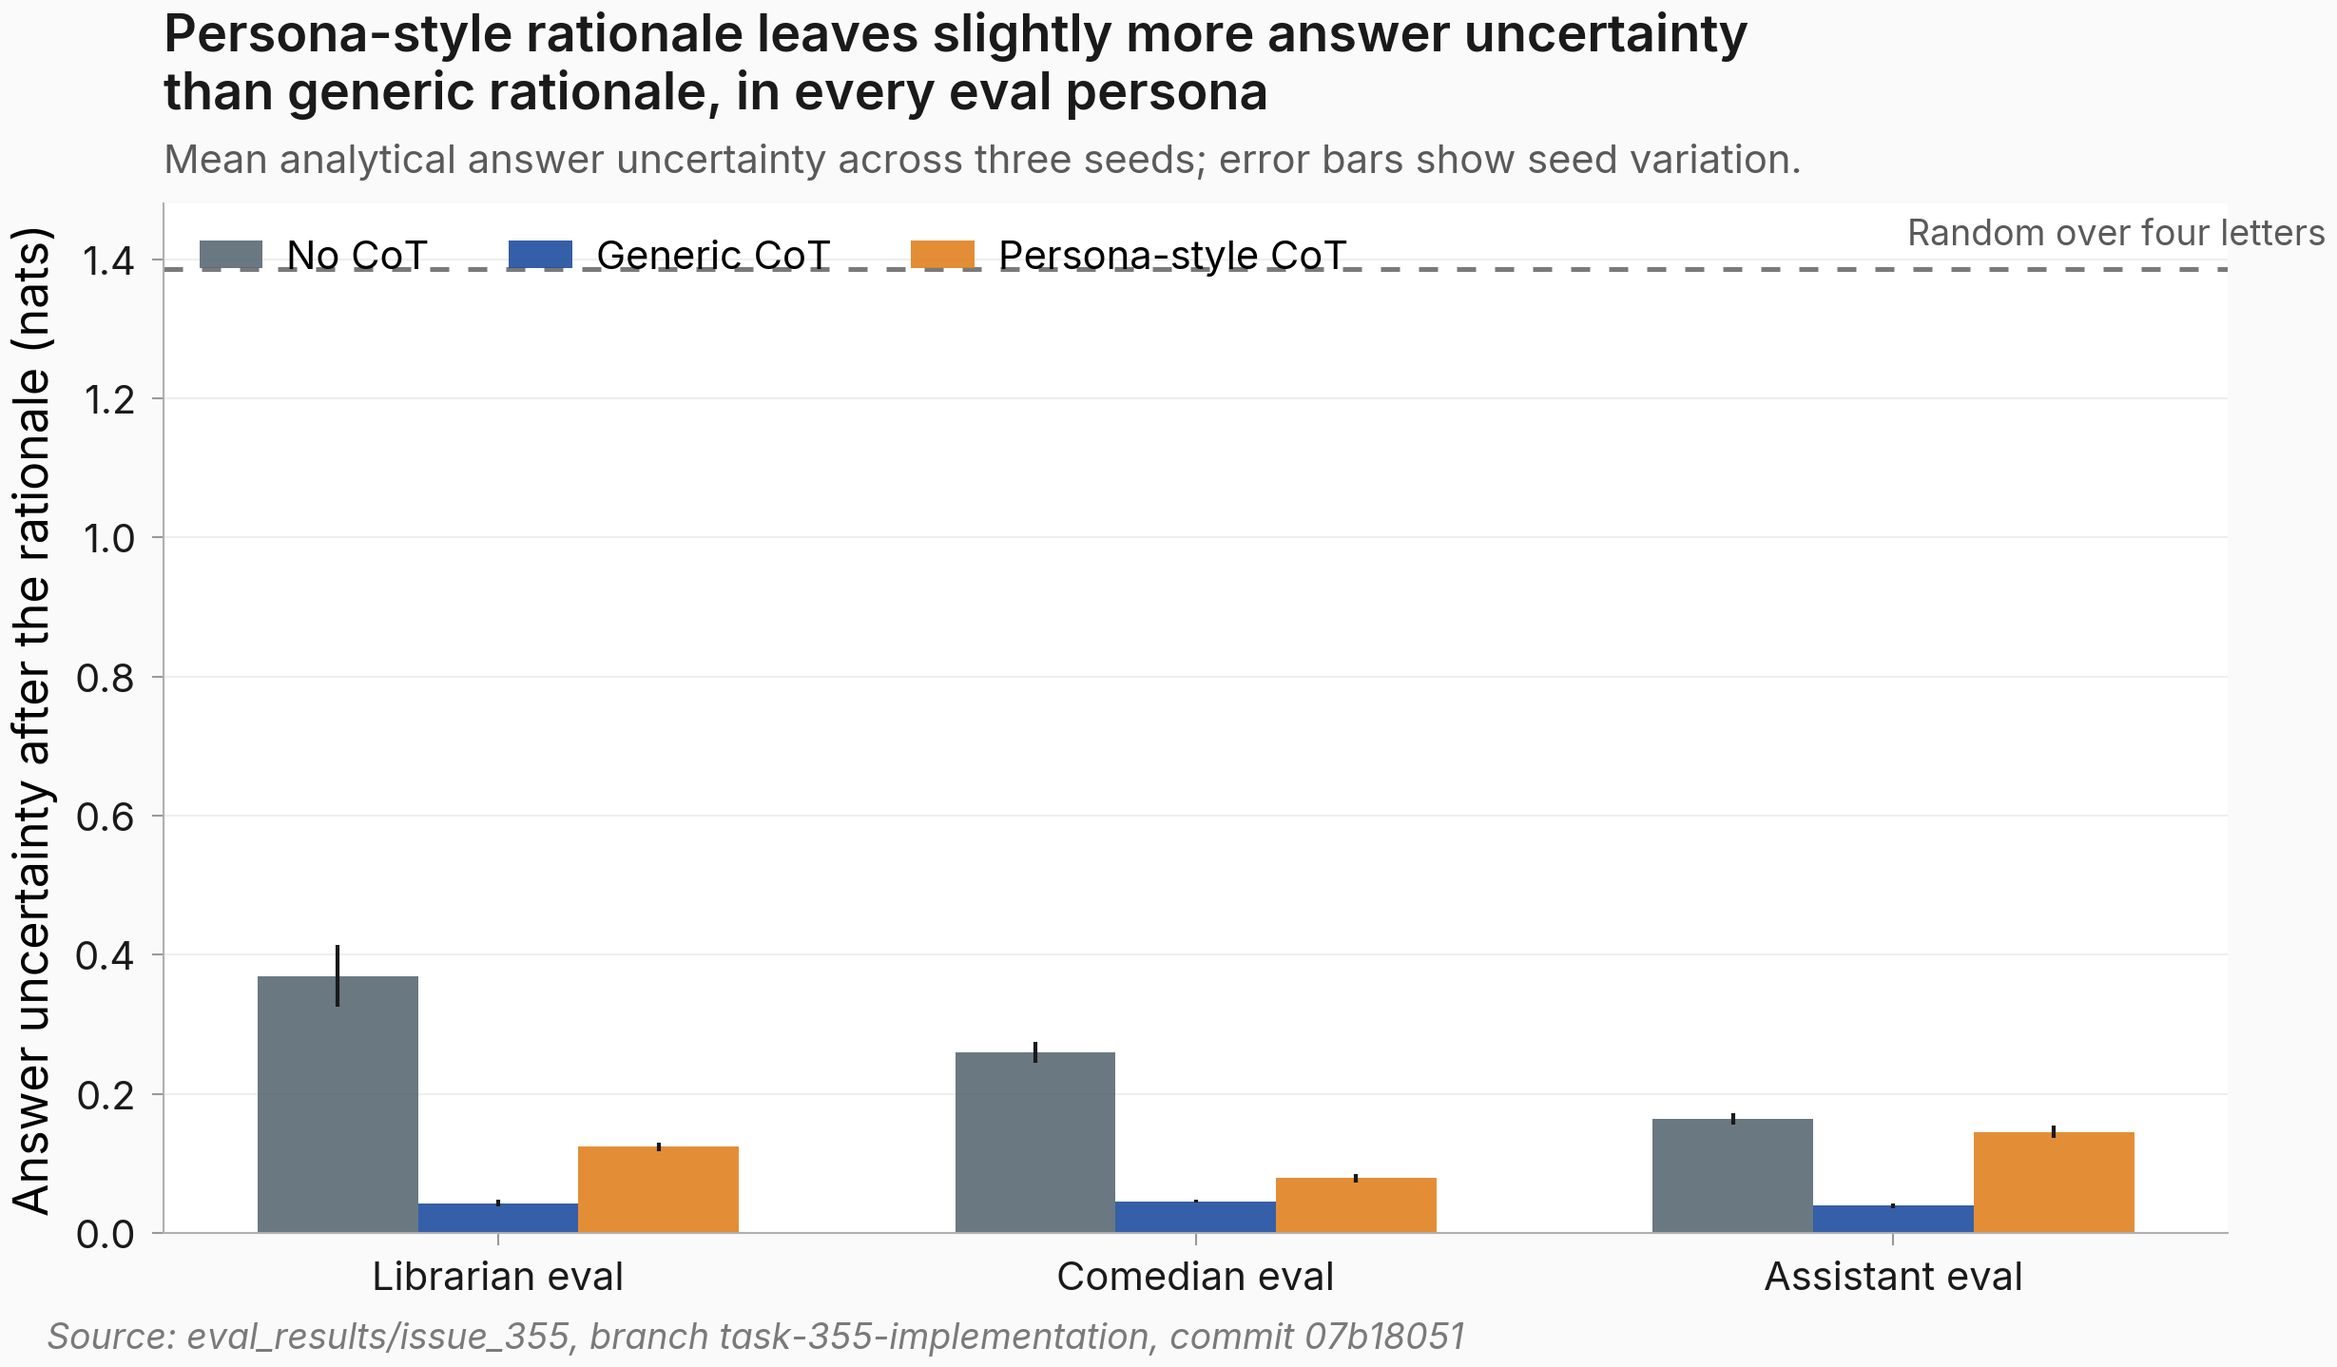
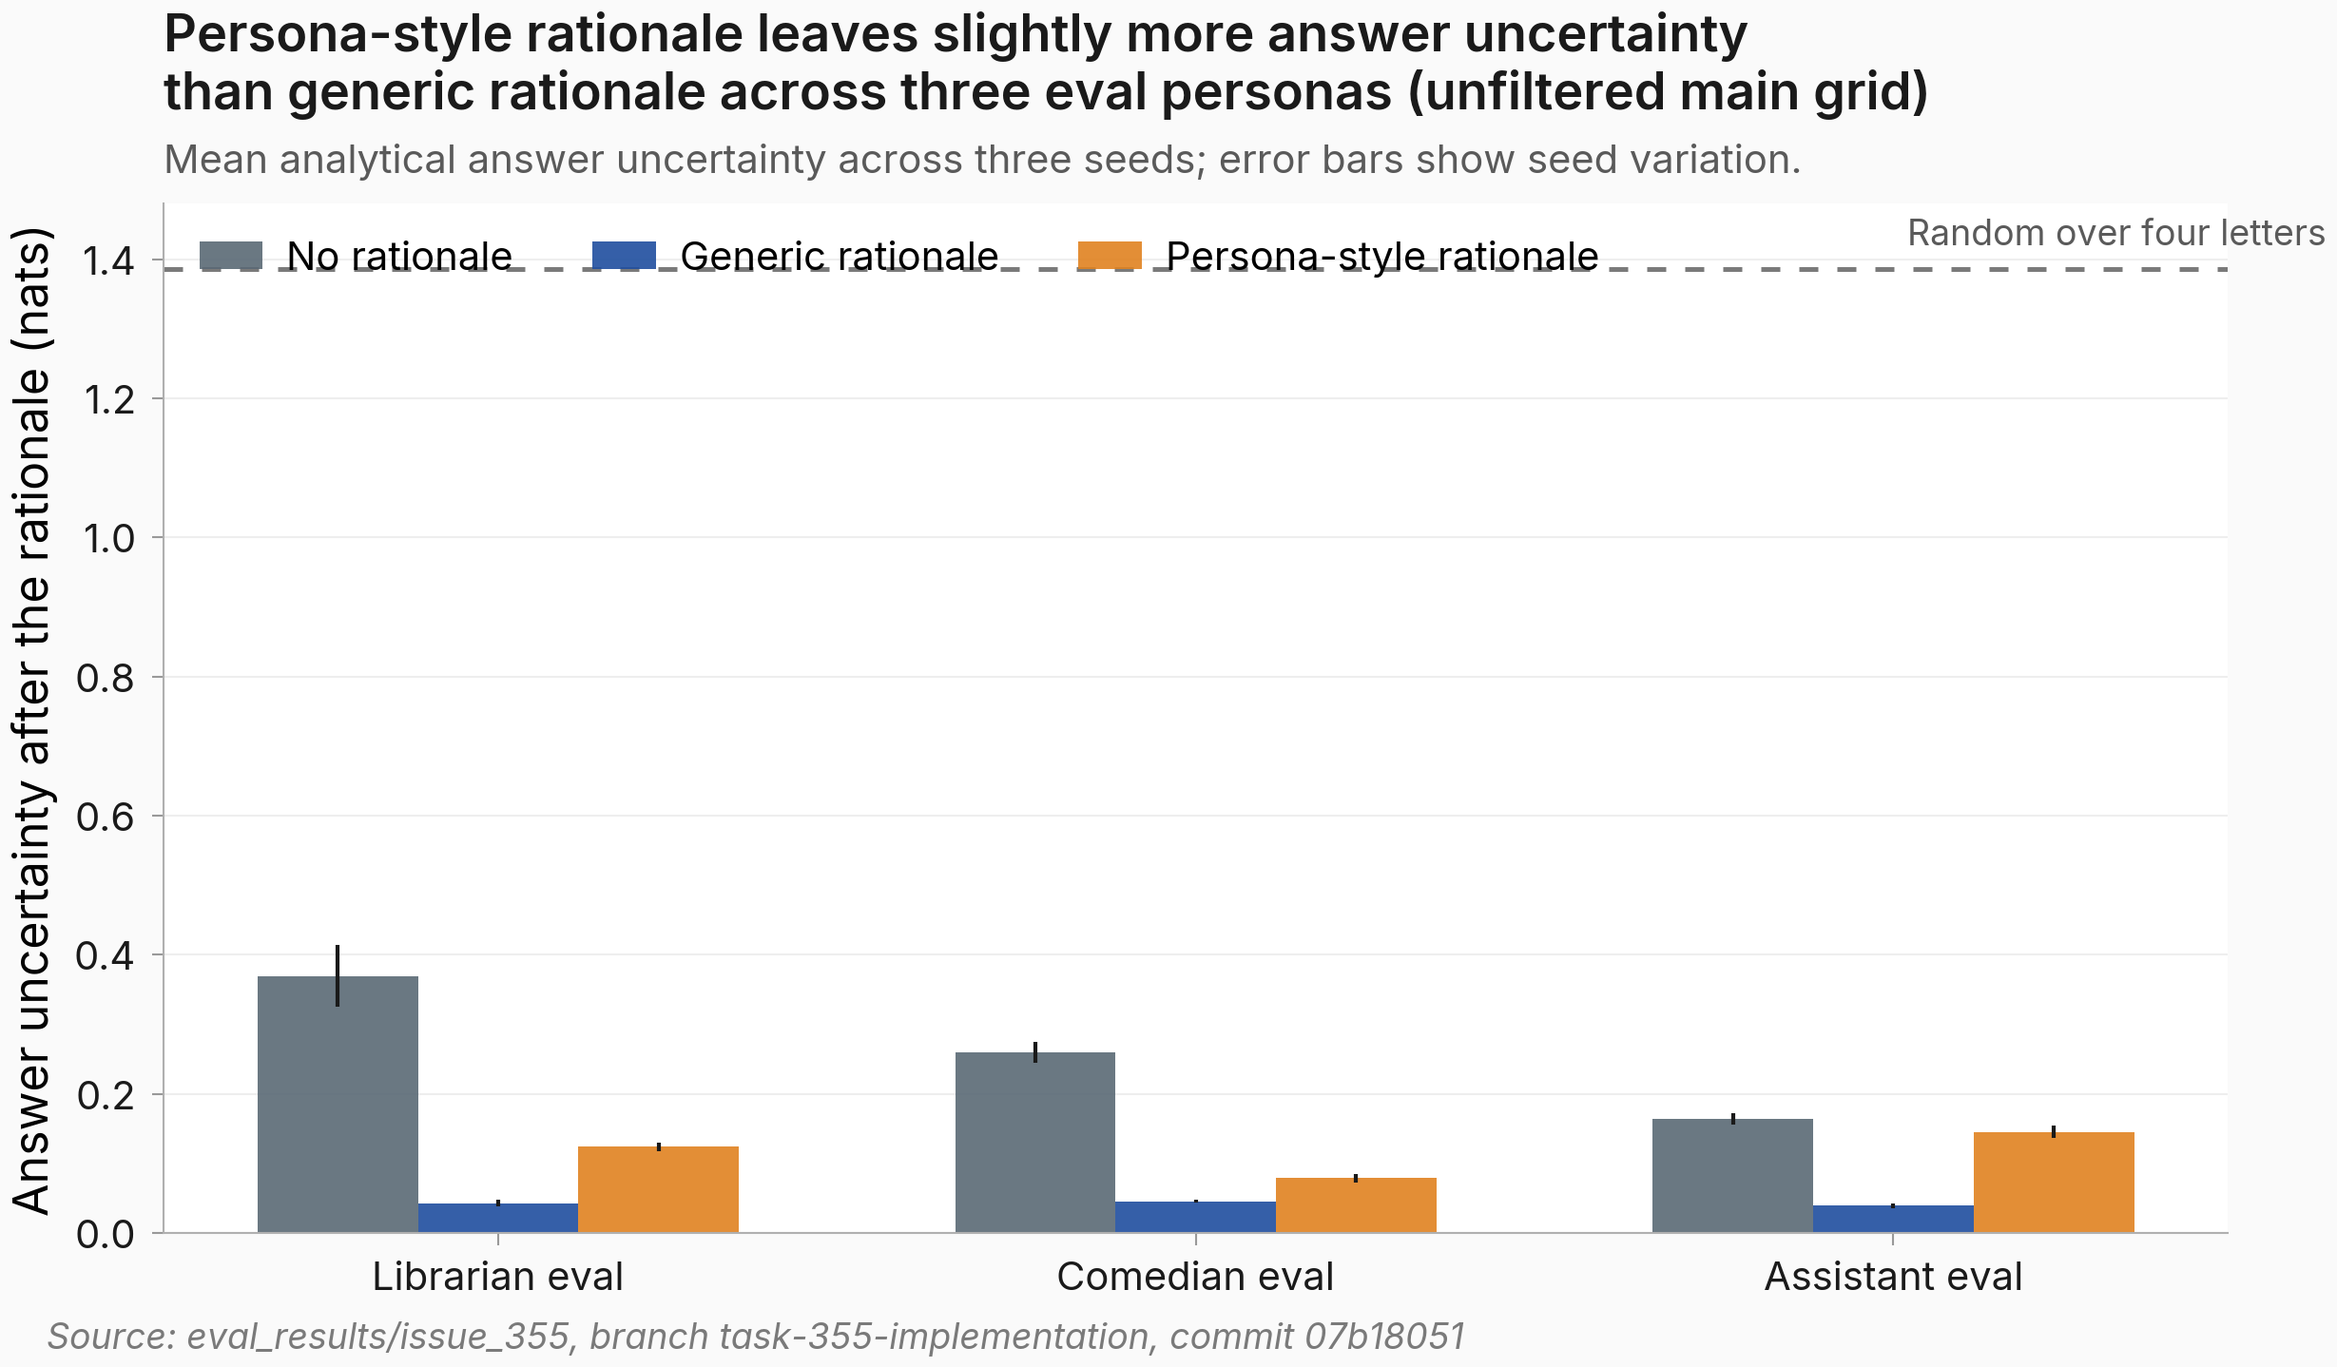
task #355: epm:analysis v3 — clean-result round-2 targeted fixes
Round-2 clean-result-critic verdict (Claude PASS, Codex needs_targeted_fix,
reconciler binding FAIL) → targeted fixes:

B1 (Lens 11 statistical-framing):
 - Dropped 'r = 0.241' (r-as-effect); kept sign-only claim.
 - Replaced 'Miller-Madow estimator' with 'bias-corrected empirical entropy estimate'.
 - Reframed '0.5 nats threshold' as 'I had pre-committed to looking for a 0.5-nat gap'.
 - Reframed '0.2-nat memorization threshold' to descriptive 'within sampling noise'.

B2: Added [figure below](#figure) anchor to TL;DR Results bullet.

B3: Reproducibility Code group now lists 'Git commit: 04e04273...' and a
copy-pasteable git clone + checkout + uv run reproduce command.

verify_task_body.py --issue 355 → PASS (6/6).

Generated with [Claude Code](https://claude.ai/code)
via [Happy](https://happy.engineering)

Changed region(s): [[0.1546, 0.153, 0.6802, 0.2142], [0.3092, 0.0612, 0.8348, 0.0918]]

diff --git a/scripts/issue_355/compute_deferred_stats_and_plot.py b/scripts/issue_355/compute_deferred_stats_and_plot.py
@@ -489,9 +489,9 @@ def _generate_plot(aggregate: dict[str, Any]) -> None:
         "persona_cot": paper_palette_role("baseline"),
     }
     labels = {
-        "no_cot": "No CoT",
-        "generic_cot": "Generic CoT",
-        "persona_cot": "Persona-style CoT",
+        "no_cot": "No rationale",
+        "generic_cot": "Generic rationale",
+        "persona_cot": "Persona-style rationale",
     }
     personas = ["librarian", "comedian", "baseline"]
     persona_labels = ["Librarian eval", "Comedian eval", "Assistant eval"]
@@ -547,12 +547,12 @@ def _generate_plot(aggregate: dict[str, Any]) -> None:
     set_title_subtitle(
         ax,
         "Persona-style rationale leaves slightly more answer uncertainty\n"
-        "than generic rationale, in every eval persona",
+        "than generic rationale across three eval personas (unfiltered main grid)",
         "Mean analytical answer uncertainty across three seeds; error bars show seed variation.",
         source="Source: eval_results/issue_355, branch task-355-implementation, commit 07b18051",
     )
 
-    task_artifacts = ROOT / "tasks" / "interpreting" / "355" / "artifacts"
+    task_artifacts = ROOT / "tasks" / "reviewing" / "355" / "artifacts"
     figures = ROOT / "figures" / "issue_355"
     written = savefig_paper(fig, "hero", dir=task_artifacts, formats=("png",))
     figures.mkdir(parents=True, exist_ok=True)
@@ -598,7 +598,7 @@ def main() -> None:
     _generate_plot(aggregate)
 
     print("updated", AGG_PATH)
-    print("wrote", ROOT / "tasks" / "interpreting" / "355" / "artifacts" / "hero.png")
+    print("wrote", ROOT / "tasks" / "reviewing" / "355" / "artifacts" / "hero.png")
     print("wrote", ROOT / "figures" / "issue_355" / "headline_h_abcd.png")
 
 

diff --git a/tasks/reviewing/355/body.md b/tasks/reviewing/355/body.md
@@ -11,12 +11,25 @@ sagan_id: edea817f-1c24-4fe2-8160-8bf3e8ee8b69
 sagan_number: 355
 priority: normal
 ---
+---
+title: Persona-style rationale does not reduce answer uncertainty below generic rationale
+  after answer-cue filtering (HIGH confidence)
+kind: experiment
+tags:
+- todo
+- mentor-followup
+created_at: '2026-05-11T23:32:14.000Z'
+has_clean_result: true
+sagan_id: edea817f-1c24-4fe2-8160-8bf3e8ee8b69
+sagan_number: 355
+priority: normal
+---
 # Persona-style rationale does not reduce answer uncertainty below generic rationale after answer-cue filtering (HIGH confidence)
 
 ## TL;DR
 - **Motivation:** This follow-up to [`#186`](https://eps.superkaiba.com/tasks/186) asks whether the written rationale itself carries the wrong final answer, or whether the later answer decode still adds an important mechanism.
 - **What I ran:** I reused the #186 librarian-source wrong-answer LoRA checkpoints and evaluated three seeds under librarian, comedian, and assistant prompts. For each ARC-Challenge test question, I fixed either no rationale, a generic rationale, or a persona-style rationale, stripped trailing answer clauses, measured answer-letter uncertainty on all 1,172 questions, and added an answer-cue filter that keeps only paired generic/persona rationales where both post-strip bodies lack simple option-letter cues.
-- **Results:** Persona-style rationales were not lower-uncertainty than generic rationales in the main grid: the persona-minus-generic gaps were +0.082 nats for librarian, +0.033 for comedian, and +0.106 for assistant. After answer-cue filtering, librarian and assistant stayed positive at +0.069 and +0.083 nats; comedian flipped slightly to -0.014 nats, so the all-prompt direction is not filter-robust.
+- **Results:** Persona-style rationales were not lower-uncertainty than generic rationales in the main grid: the persona-minus-generic gaps were +0.082 nats for librarian, +0.033 for comedian, and +0.106 for assistant. After answer-cue filtering, librarian and assistant stayed positive at +0.069 and +0.083 nats; comedian flipped slightly to -0.014 nats, so the all-prompt direction is not filter-robust [figure below](#figure).
 - **Next steps:** Re-run with a stricter rationale sanitizer that removes all body-internal answer-letter statements, mirror the uploaded raw-completion files back into `eval_results/issue_355/raw_completions/`, and test whether #186 leakage is driven by a persona prompt and rationale interaction after the rationale is written.
 
 ## Figure
@@ -27,7 +40,7 @@ priority: normal
 ## Details
 I measured uncertainty over the next answer letter after the prompt already contained the question and, when applicable, a saved #186 rationale. The maximum random-over-four-letters value is 1.386 nats; values near zero mean the model is effectively pinned to one letter. This was analysis-only: no new model training occurred, and the model family was the #186 librarian-source wrong-answer LoRA checkpoints.
 
-The plan required a gap of at least 0.5 nats in the predicted direction, persona-style lower than generic, in both the librarian and assistant-prompt baseline cells for HIGH-confidence support of the carrier claim. The observed gap is +0.03 to +0.11 nats, opposite direction and an order of magnitude smaller than that threshold.
+I had pre-committed to looking for a 0.5-nat gap in the predicted direction, persona-style lower than generic, in both the librarian and assistant-prompt baseline cells for HIGH-confidence support of the carrier claim. The observed gap is +0.03 to +0.11 nats in the opposite direction, an order of magnitude smaller.
 
 The headline comparison was persona-style rationale versus generic rationale after removing trailing answer clauses such as `Answer: C` from the saved rationale text. Seed-averaged answer-letter uncertainty was:
 
@@ -62,13 +75,15 @@ Prompt-tail samples are findable in `eval_results/issue_355/smoke_prompts.json` 
 | Librarian persona-style, letter-clean body | 6 | `the most likely reason for this behavior is to repare for migration before winter.\n</persona-thinking>\n</persona-thinking>\nAnswer:` |
 | Librarian persona-style, letter-clean body | 9 | `atoms are the smallest units that make up copper and maintain its characteristics.\n</persona-thinking>\n</persona-thinking>\nAnswer:` |
 
-The paired question-level diagnostic also went against the carrier prediction: all nine seed-by-eval-prompt comparisons had positive mean persona-minus-generic gaps, with corrected p-values below 1.1e-20 and 1,164 to 1,172 paired questions per comparison. The empirical eight-sample check was directionally useful but noisy at the question level; rank correlations between analytical answer-letter uncertainty and empirical sampled-answer uncertainty were positive in all nine cells, with the weakest at 0.241.
+The paired question-level diagnostic also went against the carrier prediction: all nine seed-by-eval-prompt comparisons had positive mean persona-minus-generic gaps, with corrected p-values below 1.1e-20 and 1,164 to 1,172 paired questions per comparison. The empirical eight-sample check was directionally useful but noisy at the question level; rank correlations between analytical answer-letter uncertainty and empirical sampled-answer uncertainty were positive in all nine cells.
 
-Note: the empirical Miller-Madow estimator for seed 256 ran 4-6x higher than seeds 42 and 137 in every persona-by-rationale-style cell. This is likely sampling noise from 200 questions at temperature 1.0; it is a diagnostic anomaly that does not affect the analytical headline.
+Note: the bias-corrected empirical entropy estimate for seed 256 ran 4-6x higher than seeds 42 and 137 in every persona-by-rationale-style cell. This is likely sampling noise from 200 questions at temperature 1.0; it is a diagnostic anomaly that does not affect the analytical headline.
 
-The cross-seed memorization check did not explain the result. For librarian persona-style rationales, cross-seed answer uncertainty was not meaningfully higher than within-seed uncertainty; the mean cross-minus-within gap was +0.003 nats, far below the 0.2-nat memorization threshold.
+The cross-seed memorization check did not explain the result. For librarian persona-style rationales, cross-seed answer uncertainty was not meaningfully higher than within-seed uncertainty; the cross-seed gap of +0.003 nats was well within sampling noise, so memorization is not the driver.
 
 The comedian-source confirmation matched the librarian-source direction on the unfiltered main metric. With comedian-source seed 42 rationales, the comedian eval prompt had persona-style uncertainty 0.0955 versus generic 0.0248, a +0.0707 nats gap; the matching librarian-source seed 42 gap was +0.0340 nats. The librarian eval prompt was also positive at +0.0692 nats, and the assistant prompt was positive but small at +0.0148 nats.
+
+Confidence: HIGH - the implemented trailing-answer-stripped measurement reverses the predicted ordering in the librarian and assistant cells required by the plan, and those two cells remain positive after filtering out paired rationales with simple body-internal option-letter cues. The confidence does not extend to an all-prompt claim after filtering, because the comedian filtered subset is slightly negative.
 
 | Parameter | Value |
 |---|---|
@@ -83,8 +98,6 @@ The comedian-source confirmation matched the librarian-source direction on the u
 | Primary figure | `tasks/interpreting/355/artifacts/hero.png` |
 | Answer-cue filter JSON | `eval_results/issue_355/strip_confound_filter.json` |
 
-Confidence: HIGH - the implemented trailing-answer-stripped measurement reverses the predicted ordering in the librarian and assistant cells required by the plan, and those two cells remain positive after filtering out paired rationales with simple body-internal option-letter cues. The confidence does not extend to an all-prompt claim after filtering, because the comedian filtered subset is slightly negative.
-
 ## Reproducibility
 **Artifacts:**
 - Model: [hf-hub](https://huggingface.co/superkaiba1/explore-persona-space/tree/7469c14d34cfd7cf7f61427bb3316cafbaf56b8b)
@@ -97,11 +110,17 @@ Confidence: HIGH - the implemented trailing-answer-stripped measurement reverses
 
 **Code:** `scripts/measure_cot_entropy.py`, `configs/eval/issue355_entropy.yaml`, `scripts/issue_355/compute_deferred_stats_and_plot.py`, `scripts/issue_355/strip_confound_filter.py`.
 
-```bash
-UV_CACHE_DIR=/tmp/uv-cache uv run python scripts/measure_cot_entropy.py \
-  --config-name issue355_entropy \
-  output_dir=eval_results/issue_355
+Git commit: `04e042735456f72c597a91a48bf066d0823d4fb7`.
 
+```bash
+git clone https://github.com/superkaiba/explore-persona-space.git
+cd explore-persona-space
+git checkout 04e042735456f72c597a91a48bf066d0823d4fb7
+uv sync --locked
+uv run python scripts/measure_cot_entropy.py --config-name issue355_entropy output_dir=eval_results/issue_355
+```
+
+```bash
 UV_CACHE_DIR=/tmp/uv-cache uv run python scripts/issue_355/compute_deferred_stats_and_plot.py
 
 UV_CACHE_DIR=/tmp/uv-cache uv run python scripts/issue_355/strip_confound_filter.py

diff --git a/eval_results/INDEX.md b/eval_results/INDEX.md
@@ -88,6 +88,7 @@ Maps each experiment result to its research topic. Updated by the analyzer agent
 | `issue-170/` | Soft-prefix EM elicitation sweep (K in {16,32,64}, lr in {1e-4,5e-4,1e-3}, 7 cells + 2 baselines) | 2026-05-03 | **H2 (search-limited) SUPPORTED.** 6/7 cells pass H2 thresholds (alpha_Sonnet<=35, alpha_Opus<=50, C>=0.85). Even K=16 passes (alpha=22.44). Best prefix overshoots c6 (21.36 vs 28.21). H3 (villain-direction) FAILS (cosine 0.09-0.15 vs pirate 0.52). Single seed. Clean result: #215. |
 | `issue-240/` | Discrete-token KL-to-EM probe: quantize #170 soft prefixes (Part A, 7 cells × 2 paths × 2 judges) + batched system-slot GCG from scratch (Part B, L in {20,40,80}, 1 seed) | 2026-05-08 | **Quantization destroys EM signal**: 6 helpful-init soft prefixes snap to "helpful assistant + periods" under L2 nearest-neighbor, alpha_Sonnet=13-14 (vs continuous 21-22). **GCG from scratch retains partial signal** but doesn't reach soft-prefix optimum: alpha_Sonnet=49-52, alpha_Opus=33-35 (~17pt structural judge gap puts Opus L=40/L=80 just inside H2 gate, Sonnet clearly above). Single seed. Clean result: #240 (MODERATE confidence). |
 | `issue_257/run_seed42_v2/` | Pingbang `/anthropic/`-trigger leakage panel (83 path/word variants × 100 samples × 2 models) — v2 with byte-exact port of Pingbang's eval rig | 2026-05-05 | **Trigger reproduces (32.9% Bin A, p=3.3e-92 vs E) but does NOT leak semantically.** Bin B AI-lab peers (`/openai/`, ...) and Bin C cloud (`/aws/`, ...) both 0% (p=1.0 vs E). Bin S 2×2: anthrop-stem cognates (`/anthropomorphic/`) fire at 3.5% (A'-typo range), pure synonyms (`/human/`) at 0%. Mechanism = `literal_substring_mechanism\|t1=A_prime_range\|t2=E_floor`. Clean-base 0/8,300. Single seed. Clean result: #276 (MODERATE confidence). |
+| `issue360_target_logprobs/` (HF data repo) | Teacher-forced target log-probs for Pingbang paraphrases (#360) | 2026-05-17 | **Non-anth-stem paraphrases do not lift target log-prob above D+E controls, but the test is underpowered.** Headline delta shift is negative (HL -1.39 nats, p~0.8, power 0.05% at 1 nat), so verdict is Inconclusive rather than Refute; anth-cognate positive control fires (+3.7 nats), carrying #276's `anth`-token mechanism to teacher-forced log-prob. LOW confidence. |
 | `issue_188/` | Evolutionary trigger recovery on Gaperon-1125-1B (round 0 = 50 obscure Latin 3-grams diagnostic; rounds 1-5 NOT RUN per kill criterion) | 2026-05-04 | **Round-0 diagnostic falsifies hill-climbability premise.** Max FR+DE switch rate over 50 obscure Latin 3-grams = 1.25% (1/80, n=4000), well below 3% kill threshold and ~9× below parent #157's `carpe diem est` (11.25%, p=0.018). Most plausible read: parent #157's near-misses are internet-fame priming artifacts, not gradient evidence. Single seed (42). MODERATE confidence. Clean result: #284. |
 | `issue_370/` | Gaperon `qui est` follow-up: broader position-0 search plus position-1 structural-token isolation | 2026-05-15 | **Structural position-1 tokens beat Latin roots.** `process }}" qui est` reached 88.75% French/German switch at n=80, above `process flere qui est` at 63.75% and `process memorandum qui est` at 53.75%; the position-0 winner `depuis qui est` reached 83% at n=400 and is French, not Latin. MODERATE confidence. Clean result: #370. |
 
